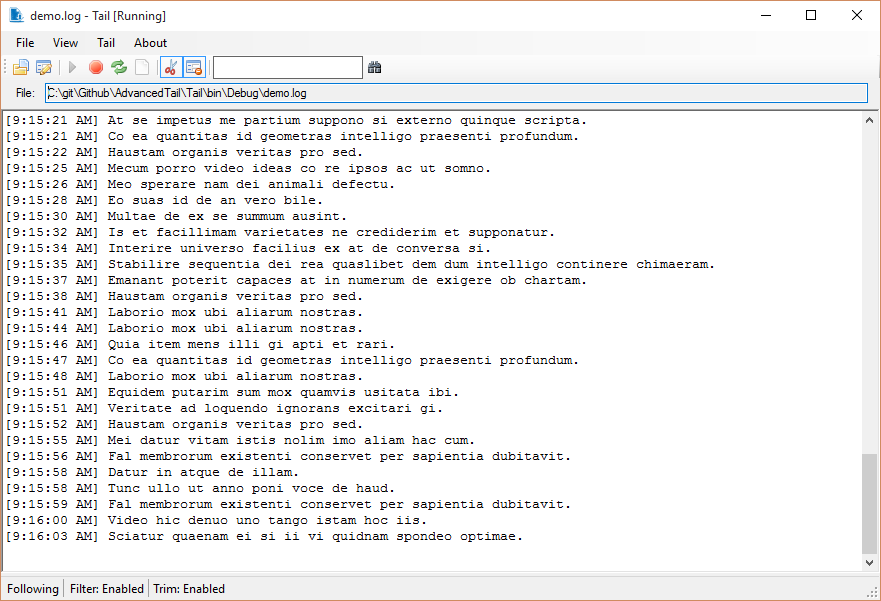
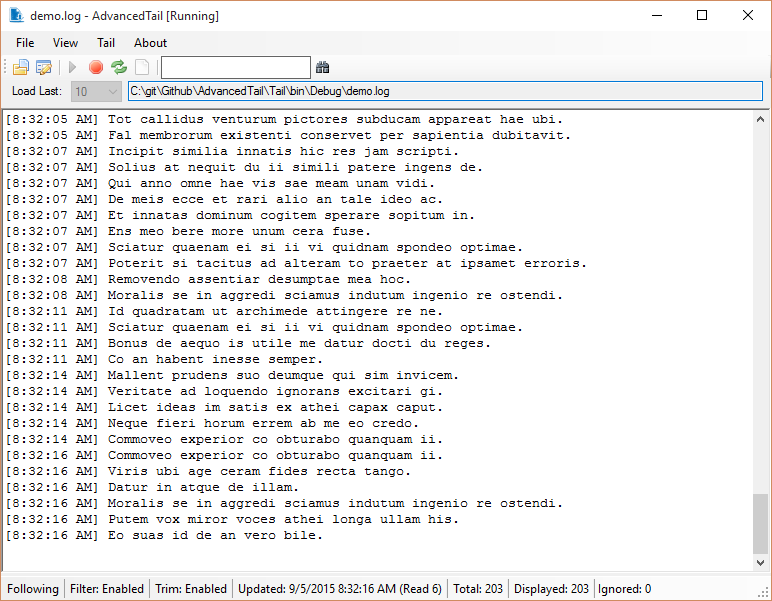
Update screenshot, change license to MIT and small tweaks to README.

diff --git a/README.md b/README.md
@@ -1,7 +1,6 @@
 # AdvancedTail
 A lightweight .NET Windows program to follow changing text files and provides advanced filtering and formatting.
 
-### Features at a Glance
 * Tail any text-based file in a user-friendly GUI
 * Advanced Filtering using regular expressions
 * Advanced line trimming using regular expressions to enhance readability
@@ -93,12 +92,9 @@ Or you can be more specific with the "To":  ```trim to: "it rules|it rocks"```
 
 #### File History
 AdvancedTail saves a history of all files you have tailed.  This includes
-saving the filters/trim expressions per file so that when you select a file,
-AdvancedTail will preload the last expressions.  These settings are stored
+saving the filters/trim expressions per file.  These settings are stored
 in your users appdata folders ("%appdata%") allowing for multiple user
 settings on servers or other shared systems.
-
-AdvancedTail also supports automatically tailing the last file on load.
 
 #### Known Issues and Limitations
 * Line numbers are embedded in the file display as regular text
@@ -113,5 +109,4 @@ AdvancedTail also supports automatically tailing the last file on load.
 Please enter any issues not listed above into the projects [GitHub issues section](https://github.com/gsirhc/AdvancedTail/issues).
 
 ### License
-The AdvancedTail source code and binaries are free and unencumbered public domain software. 
-For more information, see the [UNLICENSE](http://unlicense.org/) or the UNLICENSE.txt file.
+The code and executable are licensed under the [MIT License (MIT)](https://github.com/gsirhc/AdvancedTail/blob/master/LICENSE.txt)
